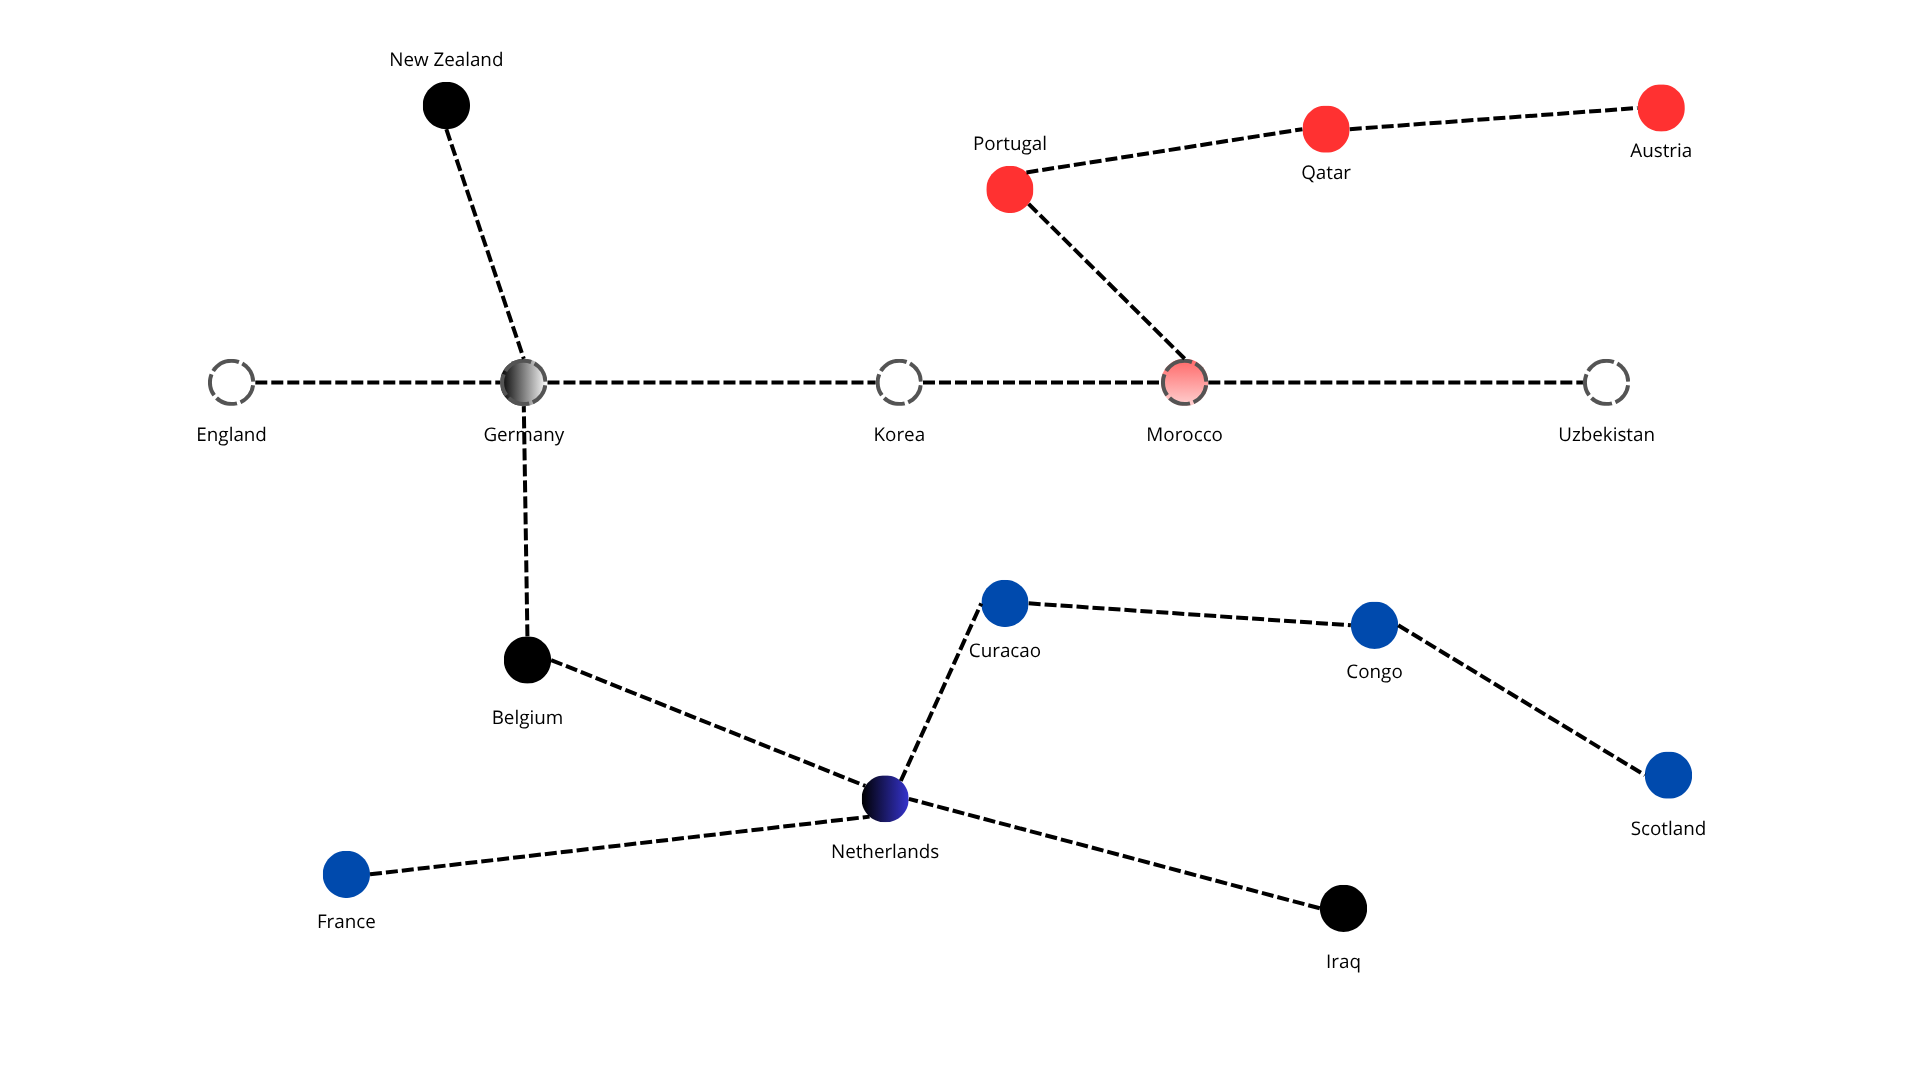
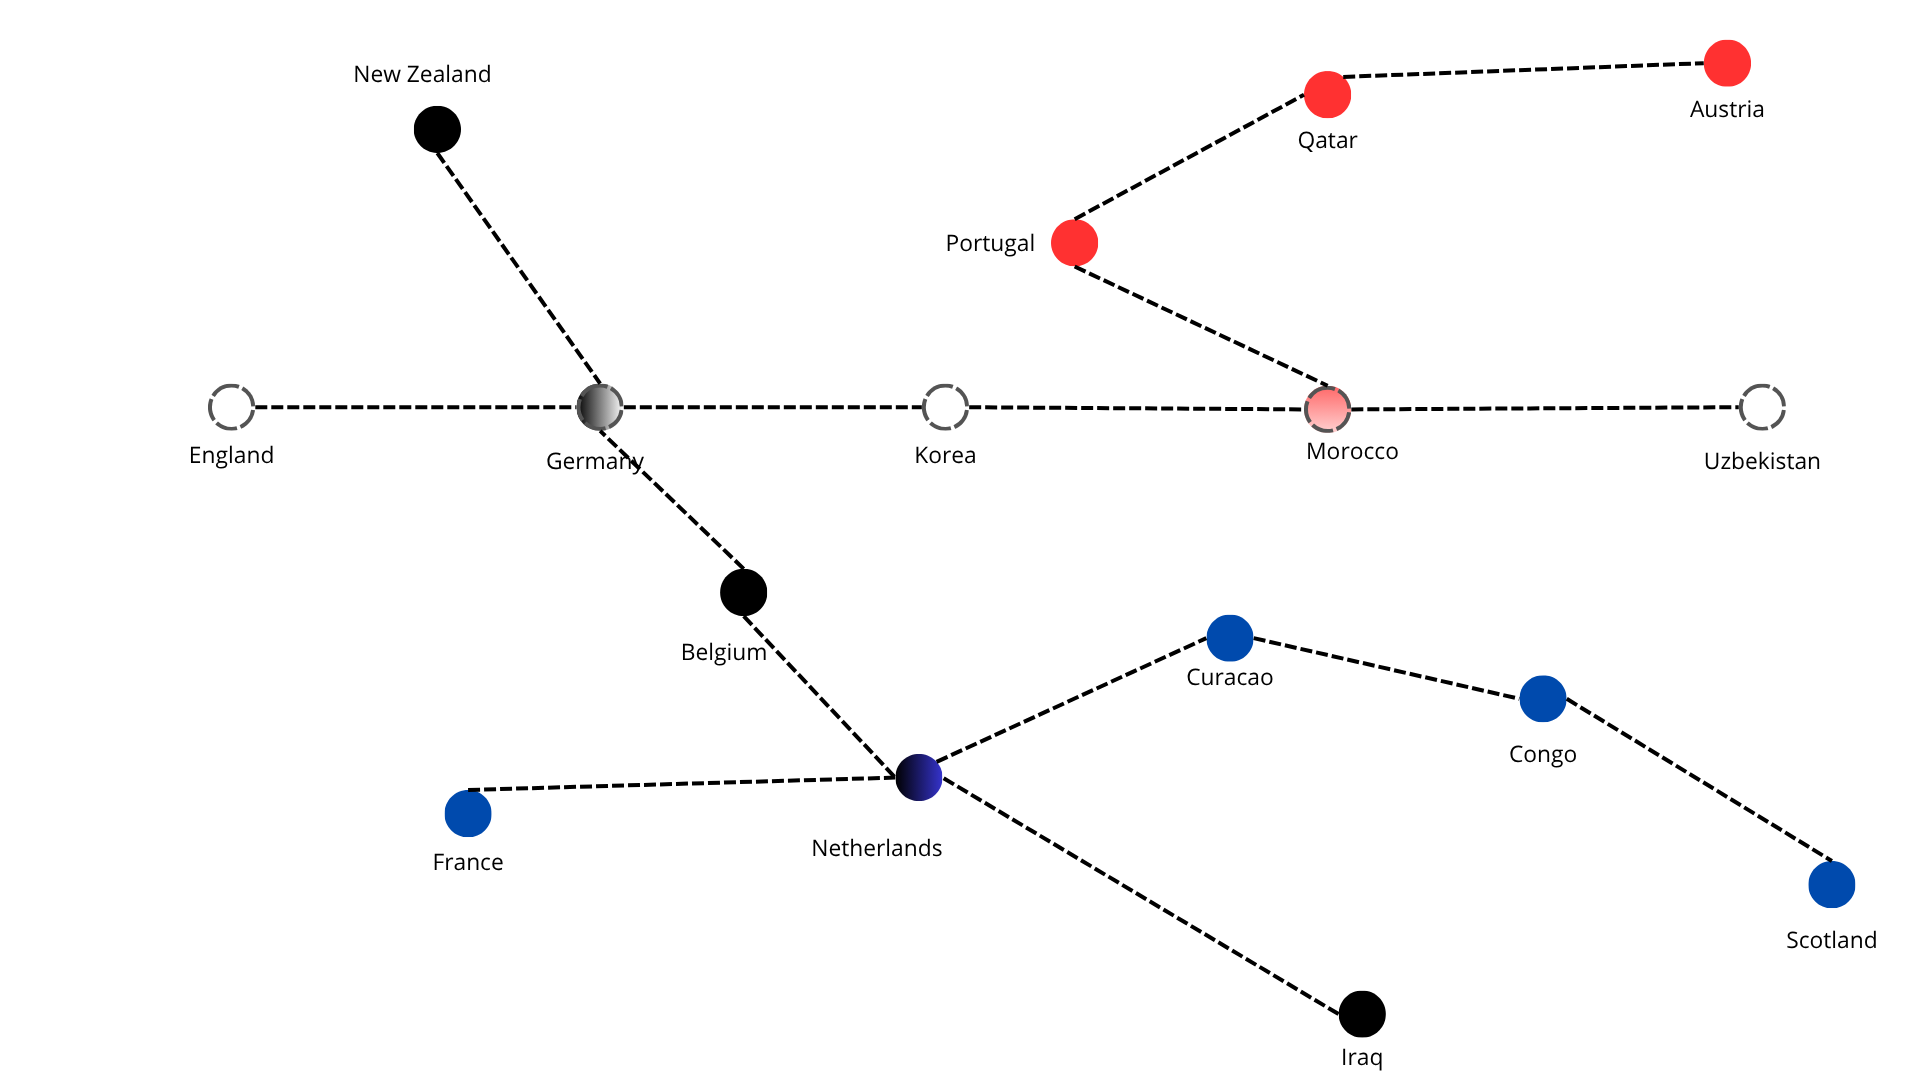
Ranking bugs fixed. Added buttons

diff --git a/client/src/components/GameLayout.jsx b/client/src/components/GameLayout.jsx
@@ -1,7 +1,7 @@
 import { useState, useEffect, useRef, useContext } from "react";
 import { useNavigate } from "react-router-dom";
 import { Button, Badge, Alert, ListGroup } from "react-bootstrap";
-import { startGame, getNetwork, validateRoute, submitRoute, getStations } from "../API.js";
+import { startGame, getNetwork, validateRoute, submitRoute, getSegments } from "../API.js";
 import FeedbackContext from "../contexts/FeedbackContext.js";
 
 const SETUP_SECONDS = 60;
@@ -58,7 +58,7 @@ function SetupPhase({ user, onReady }) {
 }
 
 // ── Planning Phase ─────────────────────────────────────────────────────────────
-function PlanningPhase({ game, stationNames, stations, onValidate, initialSeconds = PLANNING_SECONDS }) {
+function PlanningPhase({ game, stationNames, segments, onValidate, initialSeconds = PLANNING_SECONDS }) {
     const [picked, setPicked] = useState([]);
 
     const startName = stationNames[game?.startStationId] ?? '?';
@@ -66,7 +66,20 @@ function PlanningPhase({ game, stationNames, stations, onValidate, initialSecond
 
     const routeText = picked.length > 0
         ? picked.join(' → ')
-        : 'Click a station to start your route';
+        : 'Click a segment to start your route';
+
+    const addSegment = (from, to) => {
+        setPicked(prev => {
+            if (prev.length === 0) return [from, to];
+            const last = prev[prev.length - 1];
+            if (last === from) return [...prev, to];
+            // Doesn't connect — append both (validation will catch it)
+            return [...prev, from, to];
+        });
+    };
+
+    const removeLast = () =>
+        setPicked(prev => prev.length <= 2 ? [] : prev.slice(0, -1));
 
     const handleSubmit = () => onValidate(picked);
 
@@ -81,21 +94,36 @@ function PlanningPhase({ game, stationNames, stations, onValidate, initialSecond
                 <strong>From:</strong> {startName} &nbsp;&nbsp; <strong>To:</strong> {endName}
             </p>
 
-            {/* Station list */}
-            <ListGroup className="mb-3" style={{ maxHeight: '40vh', overflowY: 'auto' }}>
-                {stations.map(name => (
-                    <ListGroup.Item key={name} action onClick={() => setPicked(prev => [...prev, name])}>
-                        {name}
+            <img
+                src="/No Network.png"
+                alt="Metro network map (no lines)"
+                className="img-fluid border rounded shadow-sm mb-3"
+                style={{ maxHeight: "40vh" }}
+            />
+
+            {/* Segment list */}
+            <ListGroup className="mb-3" style={{ maxHeight: '35vh', overflowY: 'auto' }}>
+                {segments.map((seg, i) => (
+                    <ListGroup.Item key={i} className="d-flex justify-content-between align-items-center">
+                        <span>{seg.station1} — {seg.station2}</span>
+                        <div className="d-flex gap-1">
+                            <Button size="sm" variant="outline-primary" onClick={() => addSegment(seg.station1, seg.station2)}>
+                                {seg.station1} →
+                            </Button>
+                            <Button size="sm" variant="outline-secondary" onClick={() => addSegment(seg.station2, seg.station1)}>
+                                {seg.station2} →
+                            </Button>
+                        </div>
                     </ListGroup.Item>
                 ))}
             </ListGroup>
 
             {/* Route display */}
-            <h4 className="mb-2">{routeText}</h4>
+            <h5 className="mb-2">{routeText}</h5>
 
             <div className="d-flex gap-2">
-                <Button variant="outline-secondary" onClick={() => setPicked(prev => prev.slice(0, -1))} disabled={picked.length === 0}>
-                    ← Remove Last
+                <Button variant="outline-secondary" onClick={removeLast} disabled={picked.length === 0}>
+                    ← Remove Last Segment
                 </Button>
                 <Button variant="primary" onClick={handleSubmit}>
                     Submit Route
@@ -167,12 +195,14 @@ function ExecutionPhase({ result, stationNames, onComplete }) {
 
 // ── Result Phase ───────────────────────────────────────────────────────────────
 function ResultPhase({ result, onPlayAgain }) {
+    const navigate = useNavigate();
     return (
         <div className="text-center py-5">
             <h2>Result</h2>
             {result?.errorMessage && <Alert variant="danger" className="d-inline-block">{result.errorMessage}</Alert>}
             <p className="fs-3">Final coins: <Badge bg="warning" text="dark">{result?.finalCoins ?? 0}</Badge></p>
             <Button variant="primary" onClick={onPlayAgain}>Play Again</Button>
+            <Button variant="outline-secondary" onClick={() => navigate('/')}>Home</Button>
         </div>
     );
 }
@@ -183,7 +213,7 @@ export default function GameLayout({ loggedIn }) {
     const [phase, setPhase] = useState('setup');       // 'setup' | 'planning' | 'execution' | 'result'
     const [game, setGame] = useState(null);            // { id, startStationId, endStationId }
     const [network, setNetwork] = useState([]);
-    const [stations, setStations] = useState([]);
+    const [segments, setSegments] = useState([]);
     const [pendingSegments, setPendingSegments] = useState(null); // built in handleValidate, consumed in execution
     const [result, setResult] = useState(null);
     const [error, setError] = useState('');
@@ -222,9 +252,9 @@ export default function GameLayout({ loggedIn }) {
     // Create the game only when the player is done studying the map
     const handleReady = async () => {
         try {
-            const [g, stationList] = await Promise.all([startGame(), getStations()]);
+            const [g, segmentList] = await Promise.all([startGame(), getSegments()]);
             setGame(g);
-            setStations(stationList);
+            setSegments(segmentList);
             startTimeRef.current = Date.now();
             planningStartRef.current = Date.now();
             setPlanningSecondsLeft(PLANNING_SECONDS);
@@ -300,7 +330,7 @@ export default function GameLayout({ loggedIn }) {
             {error && <Alert variant="danger" dismissible onClose={() => setError('')}>{error}</Alert>}
 
             {phase === 'setup'     && <SetupPhase    user={user} onReady={handleReady} />}
-            {phase === 'planning'  && <PlanningPhase game={game} stationNames={stationNames} stations={stations} onValidate={handleValidate} initialSeconds={planningSecondsLeft} />}
+            {phase === 'planning'  && <PlanningPhase game={game} stationNames={stationNames} segments={segments} onValidate={handleValidate} initialSeconds={planningSecondsLeft} />}
             {phase === 'execution' && <ExecutionPhase result={result} stationNames={stationNames} onComplete={() => setPhase('result')} />}
             {phase === 'result'    && <ResultPhase   result={result} onPlayAgain={handlePlayAgain} />}
         </div>

diff --git a/server/dao_games.js b/server/dao_games.js
@@ -1,17 +1,21 @@
 import db from "./db.js";
 
 export default function GameDao() {
-  // Retrieve the list of stations
-  this.listStations = () => {
+  // Retrieve the list of connected station pairs (segments)
+  this.listSegments = () => {
     return new Promise((resolve, reject) => {
-      const sql = "SELECT name FROM stations ORDER BY RANDOM()";
+      const sql = `
+        SELECT s1.name AS station1, s2.name AS station2
+        FROM connections c
+        JOIN stations s1 ON c.station_1_id = s1.id
+        JOIN stations s2 ON c.station_2_id = s2.id
+        ORDER BY RANDOM()
+      `;
       db.all(sql, [], (err, rows) => {
-        if(err)
+        if (err)
           reject(err);
-        else {
-          const stations = rows.map((s => s.name));
-          resolve(stations);
-        }
+        else
+          resolve(rows.map(r => ({ station1: r.station1, station2: r.station2 })));
       });
     });
   }
@@ -160,11 +164,15 @@ export default function GameDao() {
   this.getRanking = () => {
   return new Promise((resolve, reject) => {
     const sql = `
-      SELECT u.name, u.surname, g.final_coins, g.created_at, g.time_spent
+      SELECT u.name, u.surname,
+             MAX(g.final_coins) AS final_coins,
+             MIN(g.time_spent)  AS time_spent,
+             MAX(g.created_at)  AS created_at
       FROM games g JOIN users u ON g.user_id = u.id
       WHERE g.status = 'completed'
-      ORDER BY g.final_coins DESC, g.time_spent ASC
-      LIMIT 10
+      GROUP BY u.id
+      ORDER BY MAX(g.final_coins) DESC, MIN(g.time_spent) ASC, u.name ASC
+      LIMIT 2
     `;
     db.all(sql, [], (err, rows) => {
       if (err) reject(err);

diff --git a/client/src/components/DisplayRankings.jsx b/client/src/components/DisplayRankings.jsx
@@ -1,16 +1,29 @@
 import dayjs from 'dayjs';
-
 import PropTypes from 'prop-types';
-import {Col, Row, ListGroup, ListGroupItem} from 'react-bootstrap/';
+import { useNavigate } from 'react-router-dom';
+import { Button, Col, Row, ListGroup, ListGroupItem } from 'react-bootstrap/';
 
 export function RankingList(props) {
+    const navigate = useNavigate();
 
     return (
-        <ListGroup id="ranking-list" variant="flush">
-            {props.rankings.map((ranking, i) => <RankingInList
-                key={i}
-                rankingData={ranking}/>)}
-        </ListGroup>
+        <>
+            <Row className="px-3 py-2 fw-bold text-muted border-bottom">
+                <Col xs={6} xl={3}>Player</Col>
+                <Col xs={6} xl={3} className="text-end text-xl-center">Score</Col>
+                <Col xs={4} xl={3} className="text-xl-center">Date</Col>
+                <Col xs={8} xl={3} className="text-end text-xl-center">Time spent</Col>
+            </Row>
+            <ListGroup id="ranking-list" variant="flush">
+                {props.rankings.map((ranking, i) => <RankingInList
+                    key={i}
+                    rankingData={ranking}/>)}
+            </ListGroup>
+            <div className="d-flex gap-2 mb-3">
+                <Button variant="outline-secondary" onClick={() => navigate('/')}>Home</Button>
+                <Button variant="primary" onClick={() => navigate('/game')}>Play Game</Button>
+            </div>
+        </>
     );
 }
 

diff --git a/client/src/App.jsx b/client/src/App.jsx
@@ -34,21 +34,19 @@ function App() {
     setUser({ id: undefined, surname: undefined, name: undefined, email: undefined });
   };
 
-  // Restore session on page refresh (Week 10 pattern)
+  // Restore session on page refresh
   useEffect(() => {
     getCurrentUser()
-      .then(u => {
-        setLoggedIn(true);
-        setUser(u);
-        return getRanking();          // fetch ranking only after session confirmed
-      })
-      .then(rows => setRanking(rows))
-      .catch(() => {
-        setLoggedIn(false);
-        setUser(null);
-      })
+      .then(u => { setLoggedIn(true); setUser(u); })
+      .catch(() => { setLoggedIn(false); setUser(null); })
       .finally(() => setLoading(false));
   }, []);
+
+  // Fetch rankings whenever the user is logged in (covers both login and page refresh)
+  useEffect(() => {
+    if (!loggedIn) return;
+    getRanking().then(rows => setRanking(rows)).catch(() => {});
+  }, [loggedIn]);
 
   if (loading) return null;
 

diff --git a/server/index.js b/server/index.js
@@ -114,15 +114,15 @@ app.get('/api/games/:id', isLoggedIn, async (req, res) => {
     });
 });
 
-//GET /api/stations
-// Get the list of stations for the planning phase of the game.
-app.get('/api/stations', isLoggedIn, async (req, res) => {
-  gameDao.listStations()
-    .then((stations) => {
-      res.json(stations);
+//GET /api/segments
+// Get the list of connected station pairs for the planning phase of the game.
+app.get('/api/segments', isLoggedIn, async (req, res) => {
+  gameDao.listSegments()
+    .then((segments) => {
+      res.json(segments);
     })
     .catch((err) => {
-      res.status(500).json({error: "Database error while retrieving stations."});
+      res.status(500).json({error: "Database error while retrieving segments."});
     });
 });
 

diff --git a/client/src/API.js b/client/src/API.js
@@ -42,11 +42,11 @@ async function getNetwork() {
   throw new Error(err.error);
 }
 
-async function getStations() {
-  const res = await fetch(`${SERVER_URL}/api/stations`, {
+async function getSegments() {
+  const res = await fetch(`${SERVER_URL}/api/segments`, {
     credentials: 'include',
   });
-  if (res.ok) return res.json();          // array of station name strings
+  if (res.ok) return res.json();          // array of { station1, station2 } objects
   const err = await res.json();
   throw new Error(err.error);
 }
@@ -124,4 +124,4 @@ async function getRanking() {
   throw new Error(err.error);
 }
 
-export { login, getCurrentUser, logout, getNetwork, getStations, startGame, getGame, updateTimeSpent, validateRoute, submitRoute, getRanking };
+export { login, getCurrentUser, logout, getNetwork, getSegments, startGame, getGame, updateTimeSpent, validateRoute, submitRoute, getRanking };

diff --git a/client/src/components/PageLayout.jsx b/client/src/components/PageLayout.jsx
@@ -94,7 +94,7 @@ export function RulesLayout({ loggedIn }) {
                 </p>
 
                 <div className="d-flex gap-3 mt-4">
-                    <Link to="/" className="btn btn-outline-secondary">← Back to Home</Link>
+                    <Link to="/" className="btn btn-outline-secondary">Home</Link>
                     {loggedIn ? (
                         <Link to="/game" className="btn btn-success btn-lg mt-2">Let's Play</Link>
                         ): (